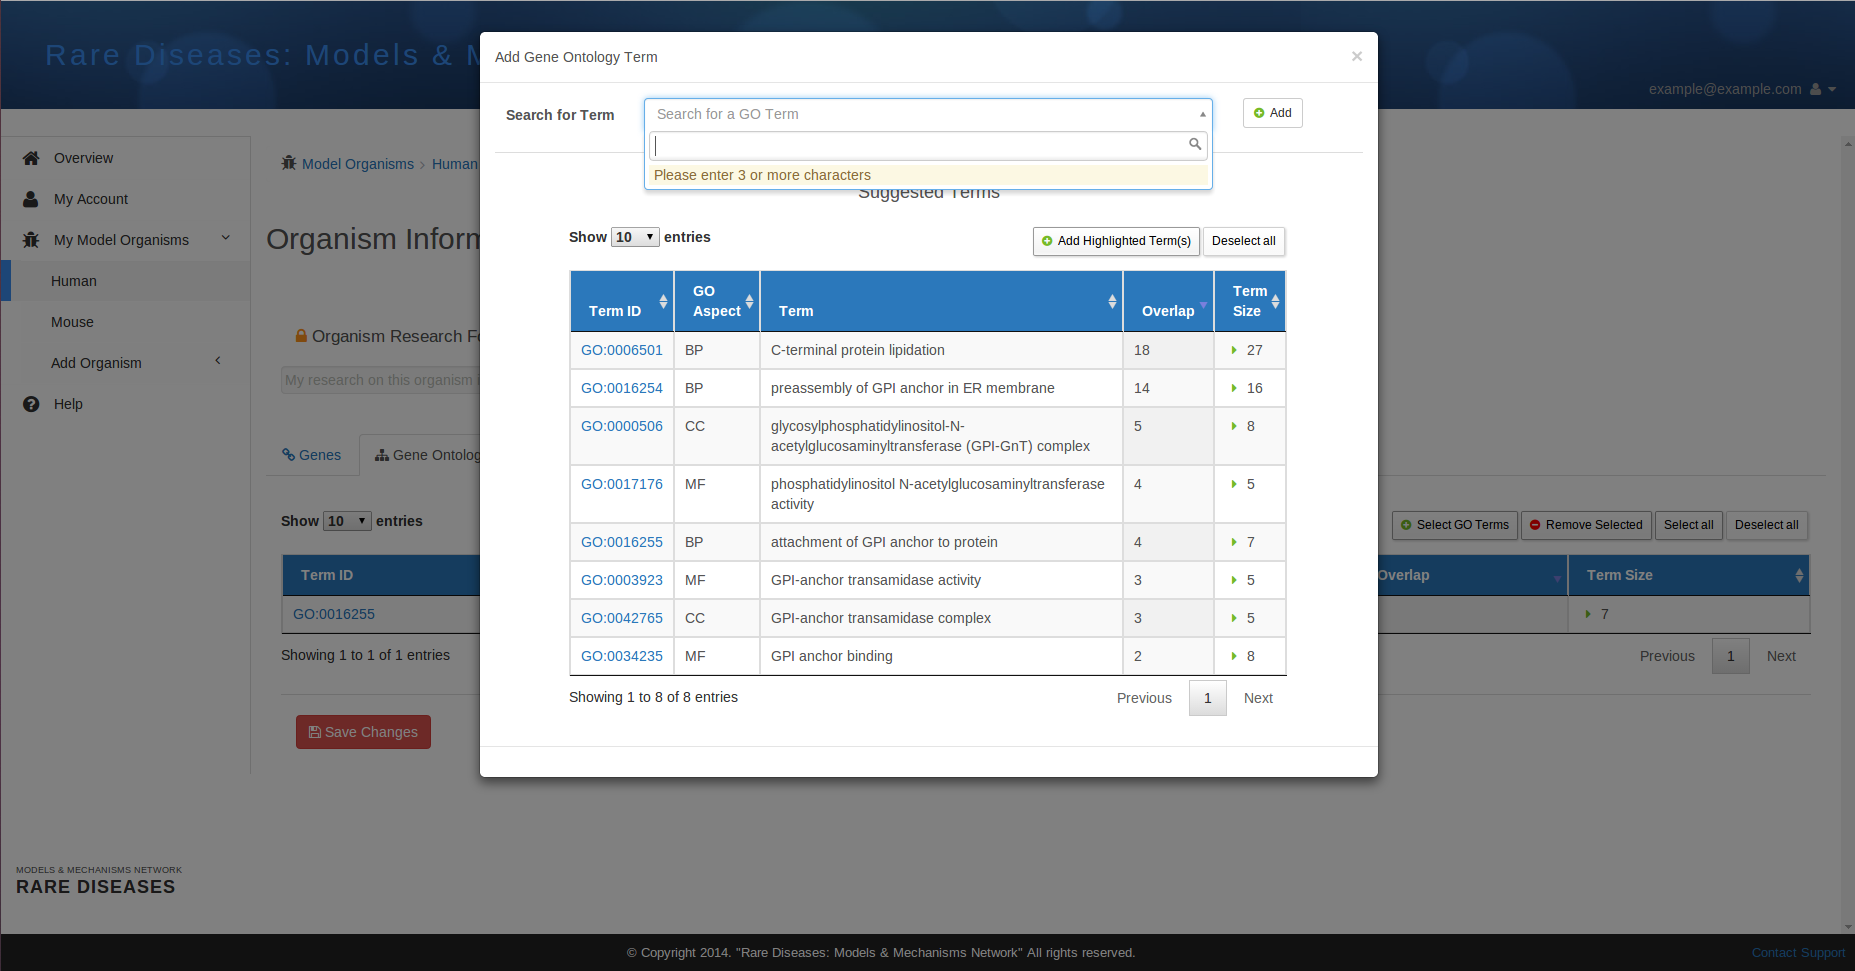
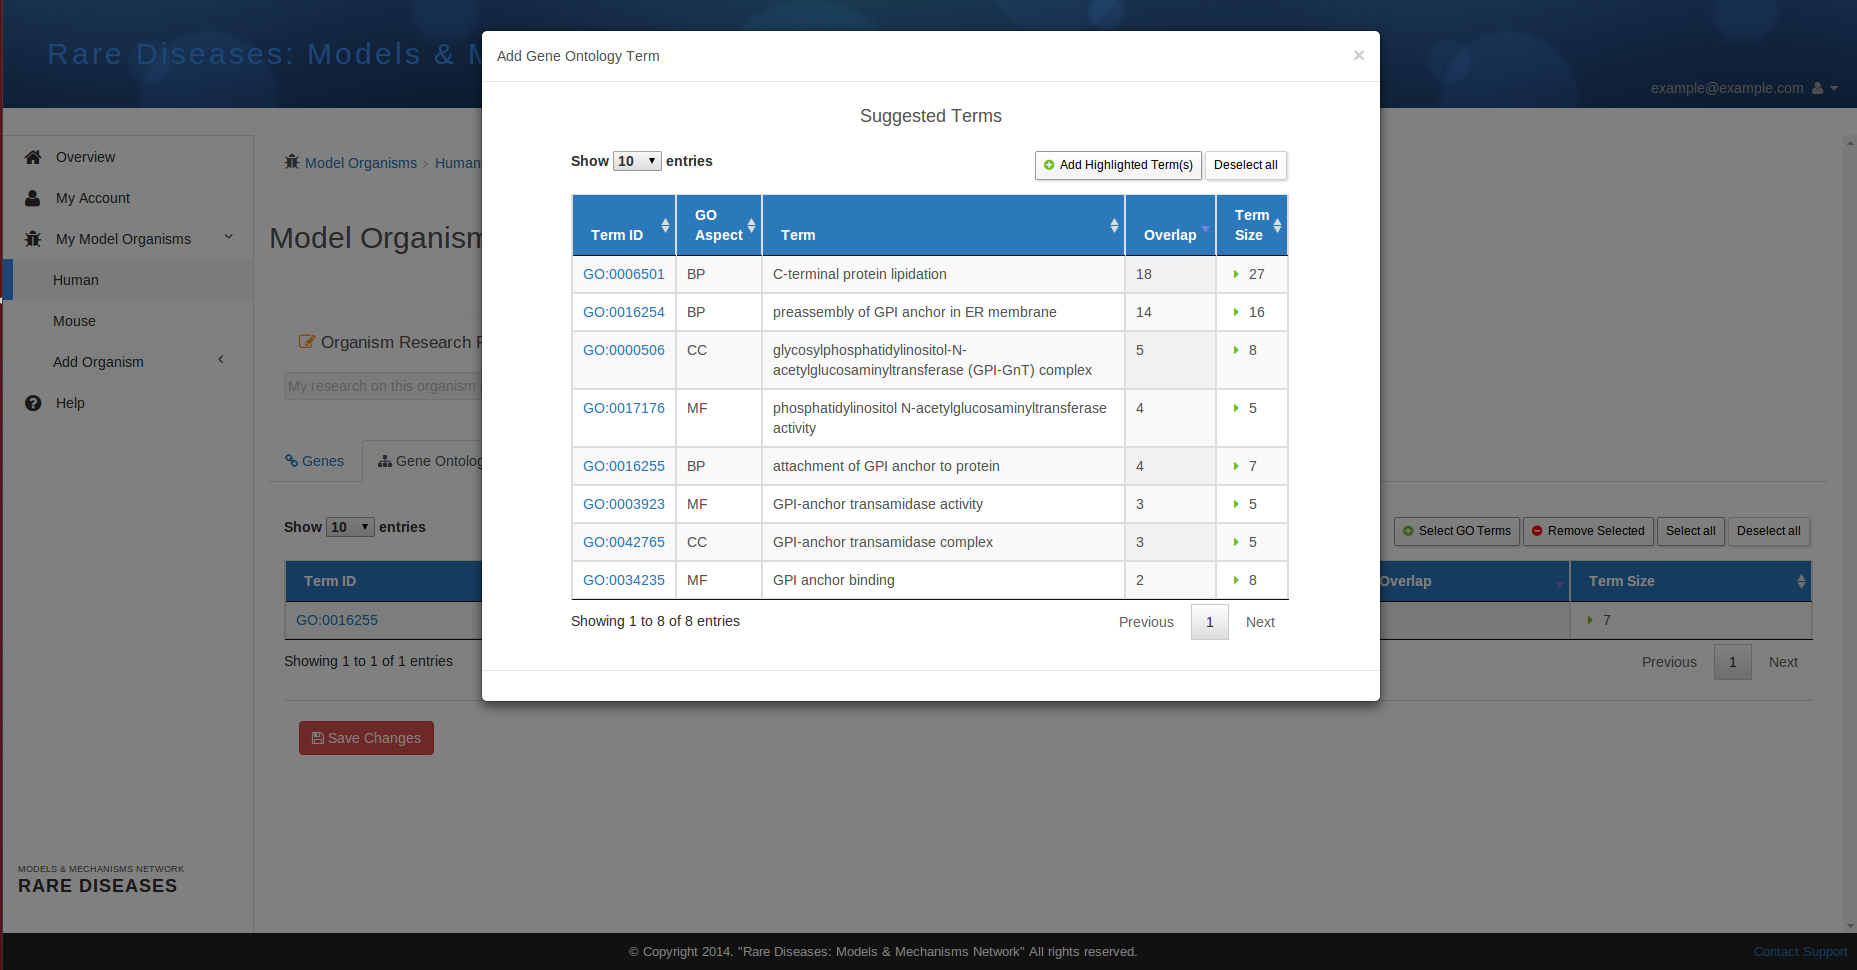
UI changes,  removed GOTerm search functionality for now, fixed bug in admin display of GOTerms, retook screenshot without GOTerm search, redid some help sections

diff --git a/rdp/src/main/webapp/scripts/api/goManager.js b/rdp/src/main/webapp/scripts/api/goManager.js
@@ -118,7 +118,7 @@
       dTable.draw();
    }
    
-   goManager.selectGoTerm = function(terms) {
+   selectGoTerm = function(terms) {
       var term = goManager.select2().select2( "data" );
       goManager.select2().select2( "val", "" );
       
@@ -182,7 +182,7 @@
       $.when(promise).done(function() {
          // When done loading Go Terms
          if (researcherModel.currentResearcher.getGenesByTaxonId( modelOrganisms.currentTaxonId() ).length > 1 ) {
-            dTable.settings()[0].oLanguage.sEmptyTable = "Could not find any GO term suggestions";
+            dTable.settings()[0].oLanguage.sEmptyTable = "Could not find any GO term suggestions for genes entered";
          }
          else {
             dTable.settings()[0].oLanguage.sEmptyTable = "A minimum of 2 genes are required for GO Term suggestions";
@@ -445,7 +445,7 @@ return $(result);
    }
 
    goManager.init = function() {
-      $( "#addTermButton" ).click( goManager.selectGoTerm );
+      //$( "#addTermButton" ).click( selectGoTerm );
       $('#term-tab-save').click(saveGoTerms);
       
 
@@ -455,7 +455,7 @@ return $(result);
 
 $( document ).ready( function() {
    goManager.init();
-   goManager.initDataTable( goManager.table(), [ {"sExtends":    "text", "fnClick":goManager.openAddTermsModal, "sButtonText": '<i class="fa fa-plus-circle green-icon"></i>&nbsp; Select GO Terms' },
+   goManager.initDataTable( goManager.table(), [ {"sExtends":    "text", "fnClick":goManager.openAddTermsModal, "sButtonText": '<i class="fa fa-plus-circle green-icon"></i>&nbsp; Suggest GO Terms' },
                                            {"sExtends":    "text", "fnClick":goManager.removeSelectedRows, "sButtonText": '<i class="fa fa-minus-circle red-icon"></i>&nbsp; Remove Selected' },
                                            "select_all", 
                                            "select_none" ] );

diff --git a/rdp/src/main/webapp/scripts/api/admin.js b/rdp/src/main/webapp/scripts/api/admin.js
@@ -215,6 +215,7 @@
                              <tr>\
                                 <th>GO ID</th>\
                                 <th>Aspect</th>\
+                                <th>Organism</th>\
                              </tr>\
                           </thead>\
                           <tbody>\
@@ -239,7 +240,7 @@
               for ( var i=0;i<taxonIds.length;i++) {
                  var terms = allResearchers[index].terms[taxonIds[i]];
                  for (var j=0;j<terms.length;j++) {
-                    tables.find('table.go-table tbody').append('<tr><td>'+terms[i].geneOntologyId+'</td><td>'+terms[i].aspect+'</td></tr>')
+                    tables.find('table.go-table tbody').append('<tr><td>'+terms[j].geneOntologyId+'</td><td>'+terms[j].aspect+'</td><td>'+utility.taxonIdToName[taxonIds[i]]+'</td></tr>')
                  }
               }
               

diff --git a/rdp/src/main/webapp/scripts/api/utility.js b/rdp/src/main/webapp/scripts/api/utility.js
@@ -3,6 +3,27 @@
  */
 (function( utility, $, undefined ) {
    
+   utility.openAccordian = function(el) {
+      el.collapse('show').parentsUntil('.help-page', '.panel-collapse').collapse('show');
+      $('#menu a[href="#help"]').tab('show');
+      $('#menu a[href="#help"]').trigger('click.metisMenu');
+      if  (el.parentsUntil('.help-page', '#about-tab').length ) {
+         $('.tab-pane a[href="#about-tab"]').tab('show');
+      } else if ( el.parentsUntil('.help-page', '#faq-tab').length ) {
+         $('.tab-pane a[href="#faq-tab"]').tab('show');
+      }
+      var a = el.siblings('a');
+      
+      if (!a.length) {
+         a = el.siblings('div').find('a');
+      }
+      console.log(a);
+      window.location.hash=a.attr('href');
+     
+      
+   }
+   
+   
    toggleTheme = function() {
       
       var theme_css = $('link.themes');

diff --git a/rdp/src/main/webapp/styles/rdp.css b/rdp/src/main/webapp/styles/rdp.css
@@ -103,7 +103,6 @@ letter-spacing: 3px;
 	padding-right: 0;
 /* 	border-bottom: 1px solid rgba(0, 0, 0, 0.3); */
 	border-top: 1px solid #ddd;
-	border-right: 1px solid #ddd;
 	overflow-y: auto;
 }
 
@@ -112,6 +111,7 @@ letter-spacing: 3px;
 	display: block;
 	overflow-y: scroll;
 	width: auto;
+	border-left: 1px solid #ddd;
 /* 	border: 1px solid rgba(0, 0, 0, 0.5);
 	box-shadow: 0px 1px 0px rgba(255, 255, 255, 0.05) inset; */
 }
@@ -453,6 +453,10 @@ div.sidebar-footer {
 	color: #ffc71d;
 }
 
+.fa.fa-check-square-o:hover {
+	color: #8ae234;
+}
+
 .panel-heading {
 	cursor: pointer;
 }
@@ -469,6 +473,16 @@ img.thumbnail {
 	-ms-border-radius: 5px;
 	-o-border-radius: 5px;
 	border-radius: 5px;
+}
+
+.read-first {
+	color: red;
+	font-size: 18px;
+}
+
+.read-first:hover {
+	color: #ff4a4a;
+	font-size: 18px;
 }
 
 
